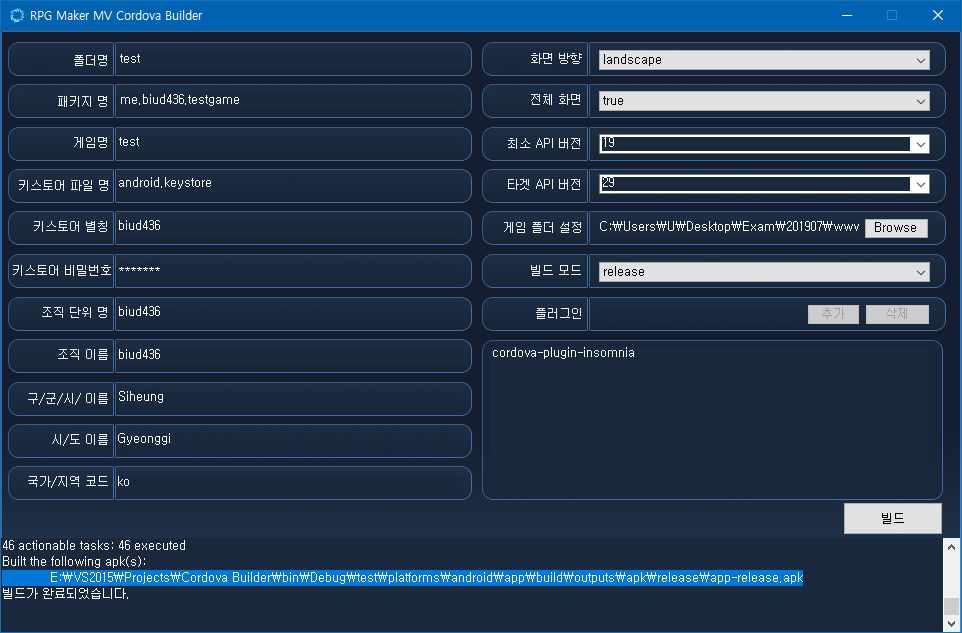
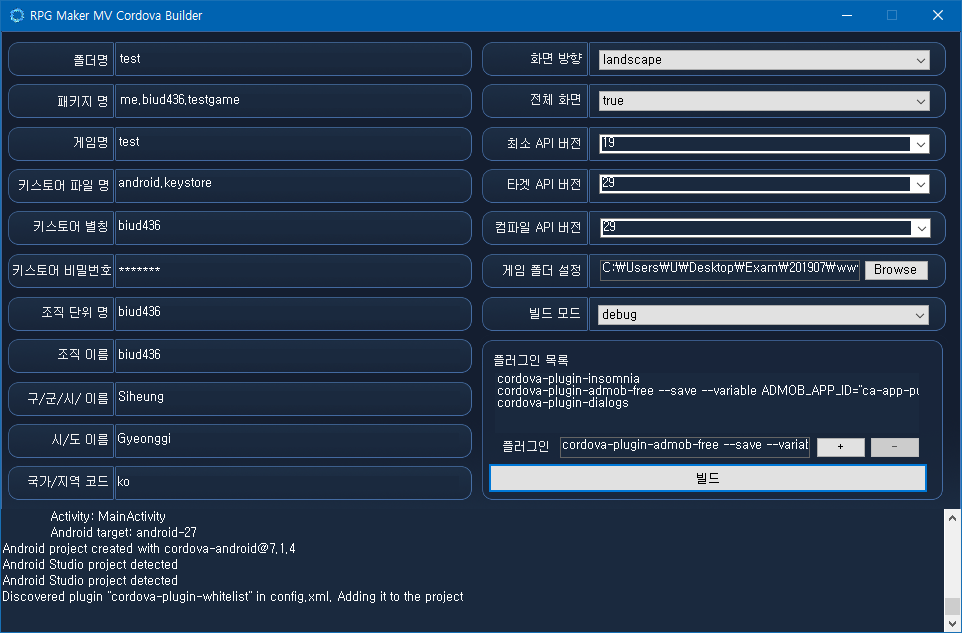
test debug mode and add plugins automatically

diff --git a/Form1.cs b/Form1.cs
@@ -292,6 +292,77 @@ namespace Cordova_Builder
             timerBackground.Start();
         }
 
+        /// <summary>
+        /// 코르도바 플러그인을 자동으로 취득합니다.
+        /// </summary>
+        /// <param name="mainPath"></param>
+        public void ReadCordovaPlugins(string mainPath)
+        {
+            System.Threading.Thread worker = new System.Threading.Thread(() =>
+            {
+                string path = System.IO.Path.Combine(mainPath, "js", "plugins");
+
+                if (System.IO.Directory.Exists(path))
+                {
+                    System.IO.DirectoryInfo dir = new System.IO.DirectoryInfo(path);
+
+                    foreach (System.IO.FileInfo fi in dir.GetFiles())
+                    {
+                        using (System.IO.StreamReader sr = fi.OpenText())
+                        {
+                            var s = "";
+                            int lineCount = 0;
+                            const int maxLine = 50;
+                            string matchLine = "";
+                            string matchString = "@cordova_plugin ";
+
+                            while ((s = sr.ReadLine()) != null)
+                            {
+                                lineCount++;
+
+                                if (s.Contains(matchString))
+                                {
+                                    matchLine = s;
+                                    break;
+                                }
+
+                                if (lineCount >= maxLine)
+                                {
+                                    break;
+                                }
+                            }
+
+                            if (!String.IsNullOrEmpty(matchLine))
+                            {
+                                int index = matchLine.IndexOf(matchString);
+
+                                string pluginName = matchLine.Substring(index + matchString.Length).Trim();
+
+                                if (InvokeRequired)
+                                {
+                                    Action action = () => {
+                                        listBoxPlugins.Items.Add(pluginName);
+                                    };
+
+                                    Invoke(action);
+                                }
+                                else
+                                {
+                                    listBoxPlugins.Items.Add(pluginName);
+                                }
+
+                            }
+                        }
+                    }
+                }
+
+
+            });
+
+            worker.Start();
+
+        }
+
         private void textBox1_TextChanged(object sender, EventArgs e)
         {
             
@@ -340,6 +411,7 @@ namespace Cordova_Builder
             if(folderBrowserDialog.ShowDialog() == DialogResult.OK)
             {
                 textBoxSettingGameFolder.Text = folderBrowserDialog.SelectedPath;
+                ReadCordovaPlugins(folderBrowserDialog.SelectedPath);
             }
 
         }
